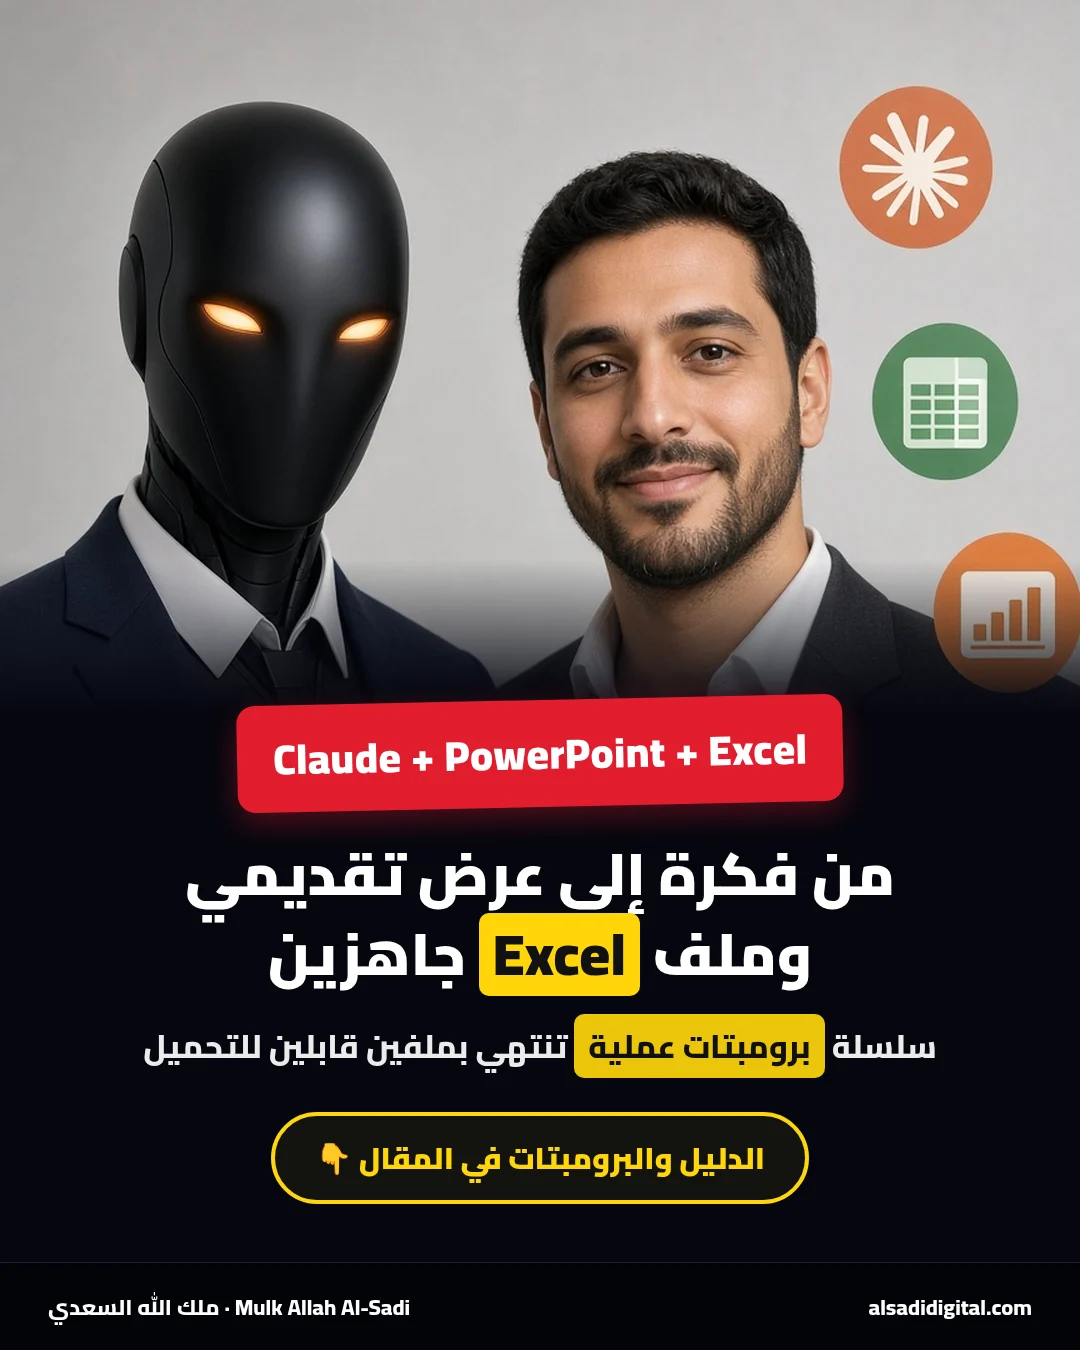
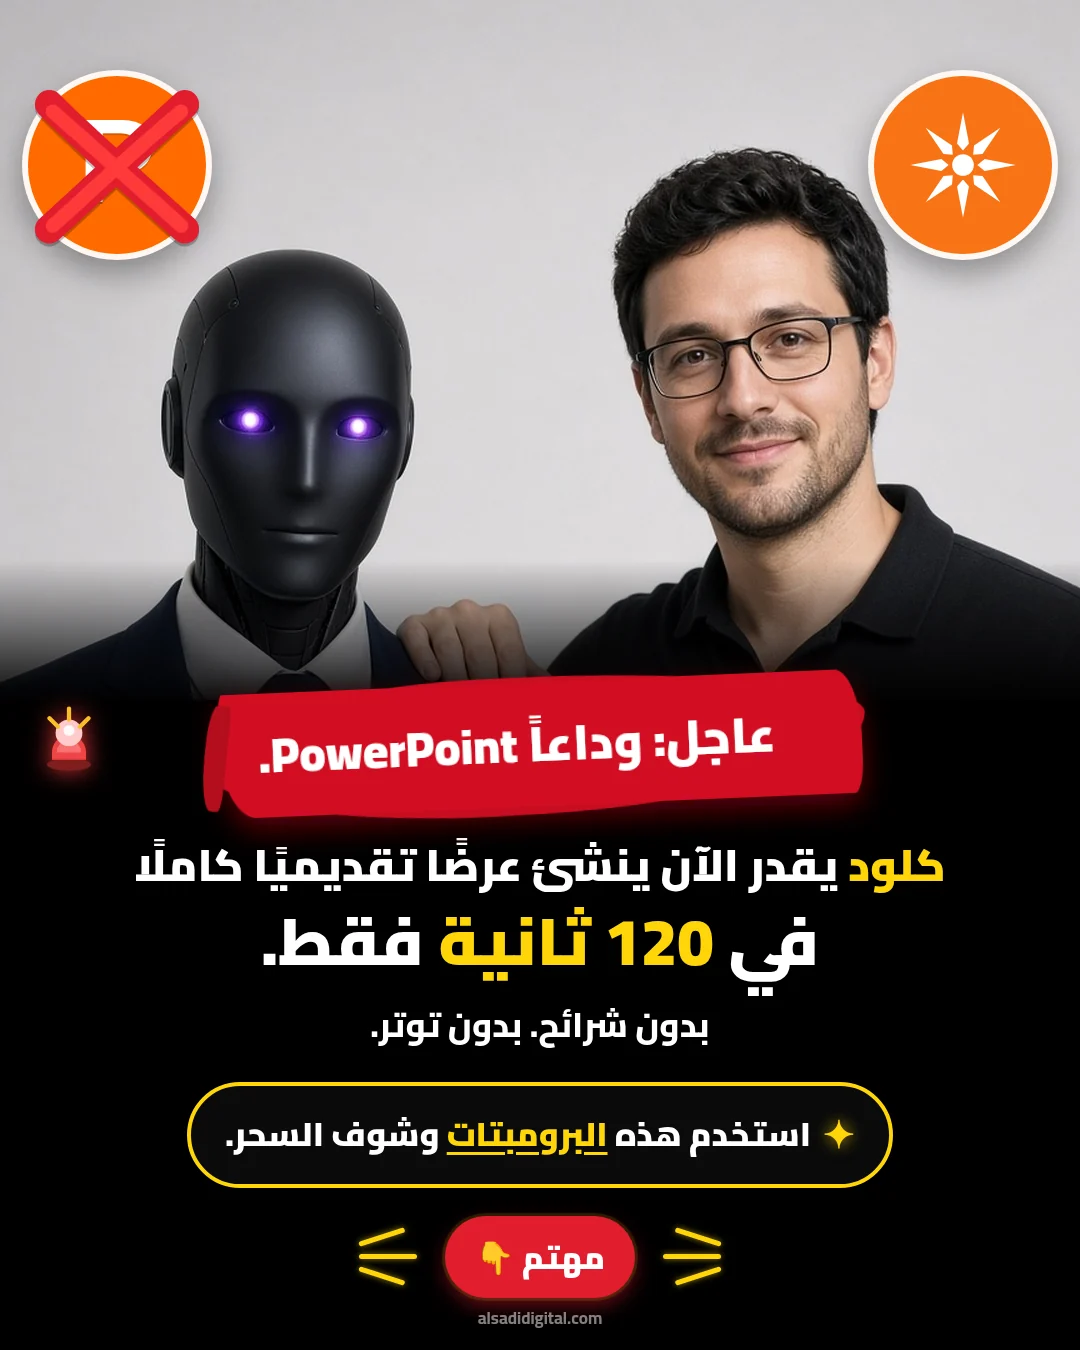
Blog: redo pptx/xlsx article cover to match robot+Claude hook style

diff --git a/src/content/blog/posts/claude-pptx-xlsx.ts b/src/content/blog/posts/claude-pptx-xlsx.ts
@@ -3,7 +3,7 @@ import type { BlogPost } from '../types'
 export const post: BlogPost = {
   slug: 'from-idea-to-pptx-xlsx-with-claude',
   date: '2026-11-09',
-  cover: '/blog/from-idea-to-pptx-xlsx-with-claude.webp?v=4',
+  cover: '/blog/from-idea-to-pptx-xlsx-with-claude.webp?v=5',
   coverAlt: {
     ar: 'غلاف مقال: من فكرة إلى عرض تقديمي وملف Excel مع Claude',
     en: 'Cover: from an idea to a PowerPoint deck and Excel file with Claude',

diff --git a/src/app/(site)/blog/page.tsx b/src/app/(site)/blog/page.tsx
@@ -9,7 +9,7 @@ export const metadata: Metadata = {
     title: 'المدونة | Alsadi Blog',
     description: 'Practical articles about AI tools, free courses and productivity.',
     url: '/blog',
-    images: [{ url: '/blog/og/learn-claude-step-by-step.jpg?v=4', width: 1200, height: 630 }],
+    images: [{ url: '/blog/og/learn-claude-step-by-step.jpg?v=5', width: 1200, height: 630 }],
   },
 }
 

diff --git a/src/content/blog/index.ts b/src/content/blog/index.ts
@@ -43,7 +43,7 @@ export const BLOG_POSTS: BlogPost[] = [
 
 /** 1200x630 social-share variant of the cover (portrait image centred on a blurred backdrop). */
 export function blogOgImage(post: BlogPost) {
-  return `/blog/og/${post.slug}.jpg?v=4`
+  return `/blog/og/${post.slug}.jpg?v=5`
 }
 
 export function getBlogPost(slug: string) {
